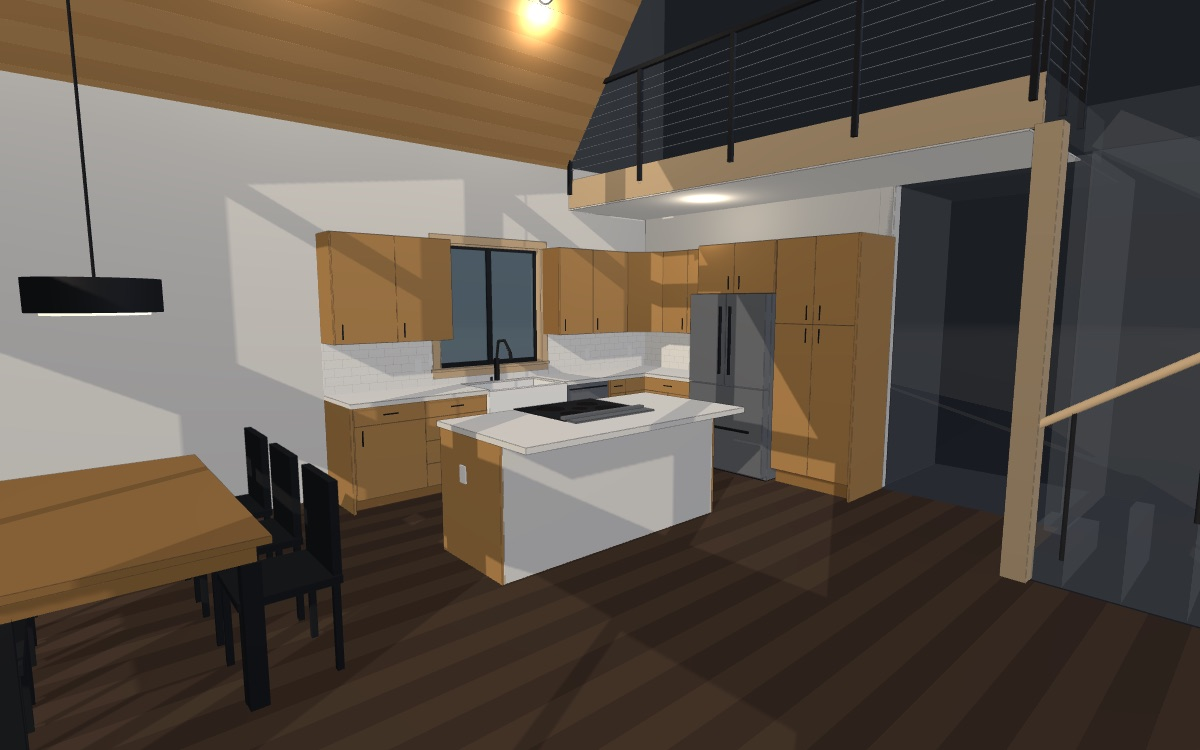
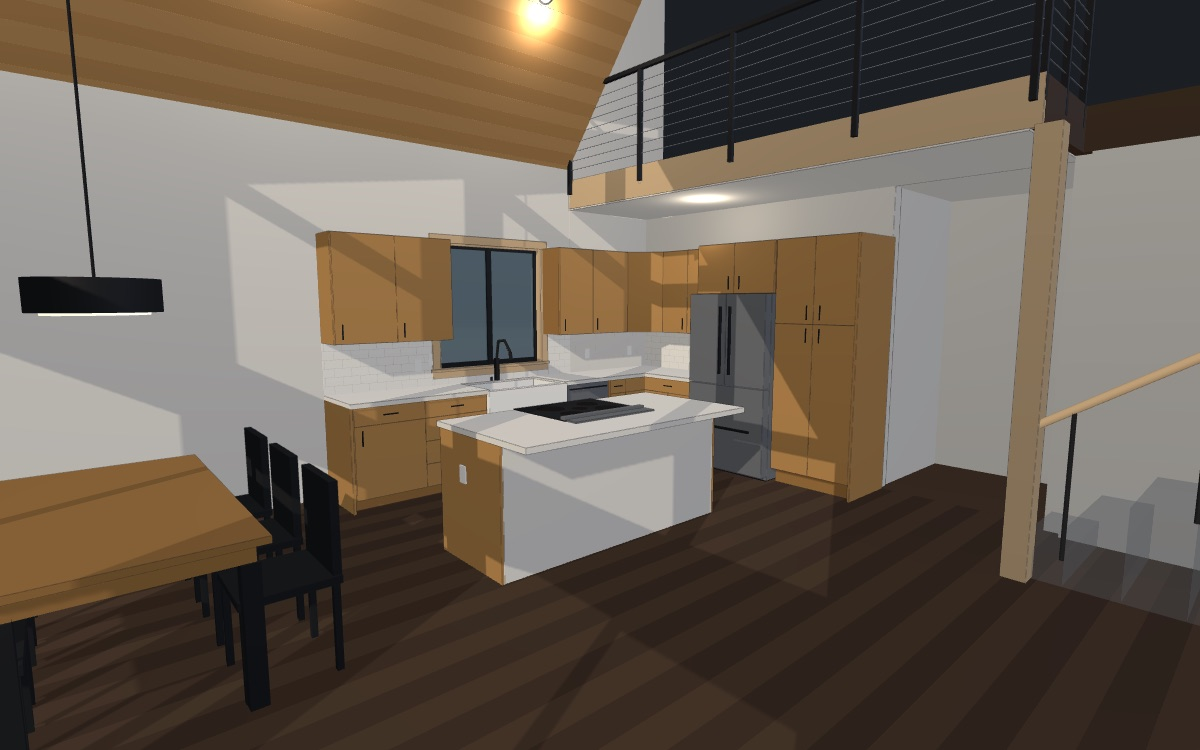
fix: guest bath shower 34 1/8 inches glass to tile, toilet re-centred on the curb face

Changed region(s): [[0.74, 0.092, 1.0, 0.7667], [0.4625, 0.0, 0.555, 0.2453]]

diff --git a/guest-bath.html b/guest-bath.html
@@ -65,16 +65,21 @@
     + basis-of-design fixture schedule. The lower-floor <b>GUEST BATH</b> on the east (gridline A) wall between the guest-room-1
     closets (south) and the kitchen (north), entered from the hall: 5'-7 3/4" x 9'-8 1/2" clear under a flat 9'-0" ceiling. The
     plumbing wall is centered on gridline 2; a 60 1/2" alcove is formed by an 8 1/2" chase at the kitchen end, with a 4'-0" x 1'-0"
-    window (C) at 5'-0" in its east wall. <b>Owner changes 2026-09-10:</b> a tiled <b>shower with a frameless glass door</b> (<b>32" from the glass to the back tile</b>, tile to 7'-0" with painted wall above,
+    window (C) at 5'-0" in its east wall. <b>Owner changes 2026-09-10:</b> a tiled <b>shower with a frameless glass door</b> (<b>34 1/8" from the glass to the back tile</b> &mdash; owner 2026-09-13, was 32" &mdash; tile to 7'-0" with painted wall above,
     like the upstairs bath) replaces A02's tub; the single-sink vanity in the hall-wall corner grows to <b>48"</b>
     (A02: 42 1/2"); every fixture and accessory is <b>matte black</b>. The sink is <b>centered on the 48"</b> (owner decision). The <b>End wall</b>
-    radio opens on the owner's default -- <b>no stub wall</b>, a full-width 66 1/2" tiled shower with custom glass wall to wall -- and can
-    show A02's 8 1/2" chase (which only existed to fit a standard 60" insert, drawn with a 60" x 34" pan) for comparison. The toilet is re-centered in what is left -- 18" to the vanity
-    and 18" to the glass (code minimum 15", 18" recommended); 40" in front of it, 43" between the vanity and the kitchen wall. Door 6
+    radio opens on the owner's default -- <b>no stub wall</b>, a full-width <b>67"</b> tiled shower with custom glass wall to wall -- and can
+    show A02's 8 1/2" chase (which only existed to fit a standard 60" insert, drawn with a 60" x 36" pan) for comparison.
+    <b>Depth 2026-09-13:</b> the shower front moved 2" west, so the glass-to-back-tile depth is 34 1/8" and the <b>flat floor inside the 4" curb is 31 1/8"</b>
+    &mdash; the curb, not the glass, is what your feet and the toilet actually meet. The toilet is re-centred on those finished faces at
+    <b>16 1/2" to the vanity end panel and 16 1/2" to the curb</b> (17 1/2" to the glass centerline; UPC 402.5 / IRC R307.1 minimum is 15",
+    18" is the comfort figure); 40" in front of it, 43" between the vanity and the kitchen wall. UPC 408.6 measures at the curb centerline:
+    33 1/8" x 67" = 2,219 sq in against a 1,024 minimum, with the 30" circle clearing by 3 1/8". Door 6
     (30", LH in-swing) is hinged at the kitchen wall. Walls and openings follow the A02 dim chains; device and light positions are scaled
     from E01 / M01 (&plusmn;1", M01 &plusmn;3"). <b>Orange = not on record or the sheets disagree:</b> S3.2 puts the hall-wall header (a door)
     at the plumbing-wall corner, 34" south of A02's door 6; A04 lists window C's rough width as 3'-0 1/2" against a 4'-0" unit; the
-    M01 fan and the E01 recessed can land 9" apart; the register sits under the open door. <b>Fixtures match the main bath</b> (owner
+    M01 fan and the E01 recessed can land 9" apart; the register sits under the open door; the shower valve and arm heights in the drawing are
+    measured from subfloor (46 1/2" and 78 1/2" above the shower's tiled floor) and the valve sits behind the fixed glass panel, out of reach from outside. <b>Fixtures match the main bath</b> (owner
     2026-09-10): Moen UT3312 shower trim, Moen 6402 faucet, Kohler Artifacts 72582 sconce over a Kohler K-26052 mirror.
     Finishes (dark rustic LVP, knotty alder, light quartz) carry the owner's main-bath / kitchen picks and are assumptions
     here; the BoD leaves the bath cabinet TBD. No site photos or field tape of this room yet -- A02's own <i>5'-3 1/4" FIELD VERIFY</i>
@@ -1581,7 +1586,7 @@ const D = {
   // kitchen partition (north): bath gyp / studs / kitchen gyp
   KP_IN: 71.0, KP_S1: 71.5, KP_S2: 75.0, KP_OUT: 75.5,
   // chase at the alcove's north end: framing face (chain 255.75 - 192.5) and its return plane (moved from A02's 120 to 116.5 for a 34" pan)
-  CH_X1: 63.25, CH_Z: 116.5,
+  CH_X1: 63.25, CH_Z: 114.5,
   // east wall (gridline A): gyp / studs / sheathing / siding
   EW_IN: 150.0, EW_S1: 150.5, EW_S2: 156.0, SHEATH: 156.5, SIDING: 157.25,
   // levels
@@ -1589,17 +1594,18 @@ const D = {
   // openings (door 6 per the A02 chain; window C RO 4'-0 1/2" x 1'-0 1/2", A04's 3'-0 1/2" rough width flagged)
   DOOR_X1: 39.0, DOOR_X2: 69.5, DOOR_HEAD: 84.5, DOOR_W: 30, DOOR_T: 1.375,
   WIN_X1: 8.75, WIN_X2: 57.25, WIN_SILL: 59.75, WIN_HEAD: 72.25,
-  // shower (owner 2026-09-10, replaces the A02 tub): 60" x 34" alcove pan in the 60 1/2" alcove, frameless glass on the threshold
-  // 32" from the back tile (owner: 32", not 30"), shower-only trim on the plumbing wall centered on the pan
-  SH_X1: 3.0, SH_X2: 63.0, SH_Z1: 116.5, SH_Z2: 150.5, PAN_T: 1.5, CURB_W: 3.0, GLASS_Z: 117.5, GLASS_H: 80,
+  // shower (owner 2026-09-10, replaces the A02 tub; depth 32" -> 34" owner 2026-09-13, spec decision 10): frameless glass on the threshold,
+  // 34 1/8" glass to back tile / 31 1/8" of flat floor inside the 4" curb; 60" x 36" alcove pan in the chase comparison view
+  SH_X1: 3.0, SH_X2: 63.0, SH_Z1: 114.5, SH_Z2: 150.5, PAN_T: 1.5, CURB_W: 3.0, GLASS_Z: 115.5, GLASS_H: 80,
   DOOR_G_X: 32.375, DOOR_G_X2: 40.375,   // glass door / fixed-panel split: with the chase (door hinged on the chase) / without (door hinged on the panel)
-  TRIM_Z: 133.5, VALVE_Y: 48, ARM_Y: 80,
+  TRIM_Z: 132.5, VALVE_Y: 48, ARM_Y: 80,   // trim re-centred on the deeper footprint; both heights are above SUBFLOOR (46 1/2" / 78 1/2" above the shower floor) -- spec open item 10
   // vanity in the plumbing-wall / hall-wall corner: 24 3/4" deep counter, 48" long (owner 2026-09-10; A02 drew 42 1/2"), faces north
   VAN_X1: 3.25, VAN_X2: 27.0, CTR_X2: 28.0, VAN_Z1: 33.5, VAN_Z2: 81.5, CTR_Y: 34.75, CTR_T: 1.25,
   SINK_XC: 15.5, SINK_ZC: 57.5, SINK_L: 13, SINK_W: 16, FAUCET_X: 6.5,   // sink centered on the 48" vanity (owner decision 2026-09-10; A02 symbol 49.5)
   MIR_HW: 11.03, MIR_Y1: 42, MIR_Y2: 76.06,          // Kohler K-26052 Essential 22 1/16" x 34 1/16" mirror, bottom 42", + Artifacts 72582 sconce 3" above -- same as the main bath
-  // toilet centerline: re-centered between the 48" vanity end (81.5) and the shower glass (117.5) -- 18" each side; A02 drew it at 104
-  WC_Z: 99.5,
+  // toilet centerline: re-centred between the 48" vanity end panel (81.5) and the CURB face (114.5) -- 16 1/2" each side, 17 1/2" to the
+  // glass centerline; was 99.5 at the 32" depth, A02 drew 104 (spec decision 10)
+  WC_Z: 98.0,
   // devices: E01 can + GFCI + 3-gang, M01 fan + floor register
   CAN: [37.2, 77.4], FAN: [42.0, 70.0], SWITCH_X: 32.5, GFCI_X: 15.5, REG: [66.5, 70.5, 60, 70],
   // finishes + framing rules
@@ -1850,7 +1856,12 @@ const winHole = rect(D.WIN_X1, D.WIN_SILL, D.WIN_X2, D.WIN_HEAD);
 }
 
 // ---- kitchen partition (north) and the tub chase at the alcove's north end ------------------------------------------------
-box(D.KP_IN, D.KP_OUT, 0, TOP, D.HW_OUT, D.EW_S1, M.gyp, 'wallN');
+//      Bath-side gyp stops at the shower: backer + tile REPLACE it there, as on the plumbing and east walls (spec decision 11 --
+//      the tile used to sit over the gyp, which understated the no-chase shower by 1/2"). Behind the chase option the strip is
+//      hidden by the chase block, so it is simply left out in both views.
+box(D.KP_S1, D.KP_OUT, 0, TOP, D.HW_OUT, D.EW_S1, M.gyp, 'wallN');                       // core + kitchen-side gyp, full length
+box(D.KP_IN, D.KP_S1, 0, TOP, D.HW_OUT, D.CH_Z, M.gyp, 'wallN');                         // bath-side gyp up to the shower
+box(D.KP_IN, D.KP_S1, D.TILE_H, TOP, D.CH_Z, D.EW_S1, M.gyp, 'wallN');                   // ... and above the shower tile
 tagNew('chaseOn', () => box(D.CH_X1, D.KP_IN, 0, TOP, D.CH_Z, D.EW_S1, M.gyp, 'tub'));   // chase block: 8 1/4" framing + gyp return at the pan's front edge (End wall radio)
 
 // ---- east wall (gridline A) with window C: 4'-0" x 1'-0" at 5'-0", tiled returns inside the surround -----------------------
@@ -1923,9 +1934,9 @@ box(D.PW_IN, D.KP_IN, D.CEIL, D.CEIL + D.GYP_T, D.HW_IN, D.EW_IN, M.gyp, 'ceilin
   box(xf, xf + 0.6, 4, gh, gz - 0.5, gz + 0.5, M.black, G);                             // glass wall channel at the valve wall
   const pull = xp => { for (const sz of [-1, 1]) { bar(V(xp, 38, gz + sz * 1.7), V(xp, 50, gz + sz * 1.7), 0.45, M.black, G); for (const y of [39, 49]) bar(V(xp, y, gz), V(xp, y, gz + sz * 1.7), 0.35, M.black, G); } };
   const panel = (ga, gb) => { box(ga, gb, 4, gh, gz - 0.19, gz + 0.19, M.glass, G, false); box(ga, gb, gh - 0.6, gh, gz - 0.5, gz + 0.5, M.black, G); };   // fixed panel + header bar
-  tagNew('chaseOn', () => {                                                              // A02 chase: 60 x 32 alcove pan, door hinged on the chase
+  tagNew('chaseOn', () => {                                                              // A02 chase: 60 x 36 alcove pan, door hinged on the chase
     const x1 = D.SH_X1, x2 = D.SH_X2, xe = D.CH_X1, gs = D.DOOR_G_X, gx2 = xe - tt - 0.4;
-    box(x1, x2, 0, yb, z1, z2, M.white, L);                                             // pan (model not chosen; 60 x 32 alcove base)
+    box(x1, x2, 0, yb, z1, z2, M.white, L);                                             // pan (model not chosen; 60 x 36 alcove base after the 2" move)
     box(x1, x2, 0, 4, z1, z1 + D.CURB_W, M.white, L);                                   // threshold along the glass line
     cyl((x1 + x2) / 2, (z1 + D.CURB_W + z2) / 2, yb, yb + 0.2, 2, M.black, L);         // drain
     box(xe - tt, xe, yb, th, z1, ez, M.tile, T);                                        // chase-end tile
@@ -1939,15 +1950,15 @@ box(D.PW_IN, D.KP_IN, D.CEIL, D.CEIL + D.GYP_T, D.HW_IN, D.EW_IN, M.gyp, 'ceilin
     pull(gs + 3.5);
   });
   tagNew('chaseOff', () => {                                                             // no chase: tiled floor + curb wall to wall, door hinged on the panel
-    const x1 = xf, x2 = D.KP_IN - tt, gs = D.DOOR_G_X2, gx2 = x2 - 0.4;
+    const x1 = xf, x2 = D.KP_S1 - tt, gs = D.DOOR_G_X2, gx2 = x2 - 0.4;   // tile face 70.625: backer replaces the gyp, so the shower is 67" tile to tile
     box(x1, x2, 0, yb, z1, z2, M.tile, L);                                              // tiled floor (mud-set, sloped to the drain in reality)
     box(x1, x2, 0, 4.5, z1, z1 + 4, M.tile, L);                                         // tiled 4" curb
     cyl((x1 + x2) / 2, (z1 + 4 + z2) / 2, yb, yb + 0.2, 2, M.black, L);                // drain
-    box(D.KP_IN - tt, D.KP_IN, yb, th, z1, ez, M.tile, T);                              // kitchen-wall end tile
-    prism(rect(D.PW_N, yb, D.KP_IN, th), ez, D.EW_S1, M.tile, T, [winHole]);           // east wall tile, full width
-    box(D.KP_IN - tt - 0.1, D.KP_IN, yb, th + 0.5, z1 - 0.5, z1, M.black, T, false);
-    box(D.KP_IN - tt - 0.1, D.KP_IN, th, th + 0.5, z1 - 0.5, ez, M.black, T, false);
-    box(D.PW_N, D.KP_IN, th, th + 0.5, ez - 0.1, ez + 0.1, M.black, T, false);
+    box(D.KP_S1 - tt, D.KP_S1, yb, th, z1, ez, M.tile, T);                              // kitchen-wall end tile
+    prism(rect(D.PW_N, yb, D.KP_S1, th), ez, D.EW_S1, M.tile, T, [winHole]);           // east wall tile, full width
+    box(D.KP_S1 - tt - 0.1, D.KP_S1, yb, th + 0.5, z1 - 0.5, z1, M.black, T, false);
+    box(D.KP_S1 - tt - 0.1, D.KP_S1, th, th + 0.5, z1 - 0.5, ez, M.black, T, false);
+    box(D.PW_N, D.KP_S1, th, th + 0.5, ez - 0.1, ez + 0.1, M.black, T, false);
     panel(xf + 0.6, gs - 0.3);
     box(gs + 0.3, gx2, 4, gh, gz - 0.19, gz + 0.19, M.glass, G, false);                 // 29 1/2" door, free edge at the kitchen wall
     for (const y of [14, 66]) box(gs - 1.6, gs + 1.6, y, y + 3.5, gz - 1.1, gz + 1.1, M.black, G);   // glass-to-glass hinges
@@ -2130,15 +2141,15 @@ label('GUEST BATH  5\'-7 3/4" x 9\'-8 1/2" clear, 9\'-0" ceiling\nplumbing wall 
 label('Door 6  30" x 84"  LH in-swing, hinged at the kitchen wall\nAgeless Iron Loch, OPCI', 54, 92, 34);
 label('S3.2 puts this wall\'s header (a door) at the plumbing-wall corner, 34" south of A02\'s door 6\nDrawn per A02 -- coordinate with Armstrong / Pieruccioni before the hall wall is framed', 40, 100, 31, FLAG);
 label('Window C  4\'-0" x 1\'-0", sill 5\'-0" (A03, A04 type C, section 4)\nA04 schedule lists its rough width as 3\'-0 1/2" -- drawn 4\'-0 1/2"; returns tiled', 33, 84, 148, FLAG);
-tagNew('chaseOn', () => label('For comparison: 60" x 34" alcove pan in the A02 chase, 58 3/4" x 32" to the glass\nthe chase only existed to fit a standard insert. End wall radio: none (default) / chase', 33, 26, 133));
-tagNew('chaseOff', () => label('Full-width tiled shower, no chase (owner default 2026-09-10): 66 1/2" tile to tile x 32" to the glass\ntiled floor + 4" curb, custom frameless glass wall to wall (tile + glass door as upstairs)', 37, 26, 133));
-label('Moen UT3312 Belfield M-CORE 3-Series shower trim, matte black -- same as the main bath (owner 2026-09-10)\nreplaces the BoD UT2313EP tub/shower kit', 10, 90, 133.5, NOTE);
+tagNew('chaseOn', () => label('For comparison: 60" x 36" alcove pan in the A02 chase, 58 3/4" x 34 1/8" to the glass\nthe chase only existed to fit a standard insert. End wall radio: none (default) / chase', 33, 26, 132));
+tagNew('chaseOff', () => label('Full-width tiled shower, no chase (owner default): 67" tile to tile x 34 1/8" to the glass (owner 2026-09-13, was 32")\ntiled floor + 4" curb -- 31 1/8" of FLAT floor inside the curb, which is the dimension you stand in; custom frameless glass wall to wall', 37, 26, 132));
+label('Moen UT3312 Belfield M-CORE 3-Series shower trim, matte black -- same as the main bath (owner 2026-09-10); replaces the BoD UT2313EP kit\nValve 48" / arm 80" are ABOVE SUBFLOOR = 46 1/2" / 78 1/2" above the shower floor -- settle both as above-shower-floor numbers before rough-in\nAnd the valve sits behind the FIXED panel, ~35" from the door: the water cannot be turned on from outside, and walking to it crosses the spray.\nThe chase option\'s answer (a valve in the chase) went away with the chase -- owner call. M01 note 4: listed anti-scald / pressure-balance valve, 120 F max', 10, 96, 132.5, FLAG);
 tagNew('chaseOn', () => label('Frameless glass: fixed panel at the valve end, 30" door hinged on the chase, swings out\n(a door at the valve end would sweep the toilet)', 33, 86, 118, NOTE));
-tagNew('chaseOff', () => label('Frameless glass wall to wall: 36 3/4" fixed panel at the valve end, 29 1/2" door on glass-to-glass hinges,\nswings out and closes against the kitchen wall (a valve-end door would sweep the toilet)', 37, 86, 118, NOTE));
+tagNew('chaseOff', () => label('Frameless glass wall to wall in a 67" opening: 35 7/8" fixed panel at the valve end, 29 9/16" door on glass-to-glass hinges,\nswings out and closes against the kitchen wall (a valve-end door would sweep the toilet)', 37, 86, 116, NOTE));
 label('Tile 0931 (OPCI) to 7\'-0" on three walls, painted wall above (owner: not to the ceiling; height typical)', 40, 90, 148, NOTE);
 label('Single-sink vanity 48" x 24 3/4" (owner 2026-09-10; A02 42 1/2"), sink centered (owner decision): 12" drawers | 24" doors | 12" drawers\ncabinet species TBD in the BoD (drawn alder), quartz assumed; Moen 6402 faucet as upstairs; the E01 receptacle stays on the hall wall', 16, 42, 58);
 label('Kohler Artifacts 72582 two-light sconce over a Kohler K-26052 Essential 22" x 34" mirror -- same as the main bath (owner 2026-09-10)\nreplaces the BoD Bellevue EGBF23259 bar; the E01 circuit-2 box lands on the sink centerline, 24" off the hall wall', 8, 97, D.SINK_ZC, NOTE);
-label('Toilet -- American Standard (model not named)\ncenterline re-centered: 18" to the vanity end, 18" to the shower glass (A02 drew it 4 1/2" further toward the tub)', 22, 34, 99.5, FLAG);
+label('Toilet -- American Standard (model not named)\ncenterline z 98: 16 1/2" to the vanity end panel and 16 1/2" to the CURB FACE -- the nearest finished obstruction, 1" inboard of the glass\n(17 1/2" to the glass centerline; UPC 402.5 / IRC R307.1 minimum is 15"). A02 drew it 6" further toward the shower', 22, 34, 98, FLAG);
 label('Recessed can (E01 ckt 2) and Broan 50 CFM fan (M01) land 9" apart\none moves ~6", or the fan becomes a fan/light', 40, 103, 74, FLAG);
 label('3-gang: vanity light / can / fan', D.SWITCH_X, 55, 36, NOTE);
 label('GFCI, ckt 32', D.GFCI_X, 48, 36, NOTE);
@@ -2152,16 +2163,17 @@ label('Flat gyp ceiling at 9\'-0" (section 4)', 37, 104, 56, NOTE);
 dim(V(D.PW_IN, 2, 112), V(D.KP_IN, 2, 112), '5\'-7 3/4" clear', V(0, 0, 0), V(0, 1, 0));
 dim(V(36, 2, D.HW_IN), V(36, 2, D.EW_IN), '9\'-8 1/2" clear', V(0, 0, 0), V(0, 1, 0));
 tagNew('chaseOn', () => {
-  dim(V(D.PW_N, 100, 116), V(D.CH_X1, 100, 116), '60 1/2" stud to stud (FIELD VERIFY)', V(0, 0, 0), V(0, 1, 0));
-  dim(V(0, 106, 114), V(D.CH_X1, 106, 114), '5\'-3 1/4" from gridline 2 (A02)', V(0, 0, 0), V(0, 1, 0));
+  dim(V(D.PW_N, 100, 112), V(D.CH_X1, 100, 112), '60 1/2" stud to stud (FIELD VERIFY)', V(0, 0, 0), V(0, 1, 0));
+  dim(V(0, 106, 110), V(D.CH_X1, 106, 110), '5\'-3 1/4" from gridline 2 (A02)', V(0, 0, 0), V(0, 1, 0));
 });
-tagNew('chaseOff', () => dim(V(D.PW_IN, 100, 116), V(D.KP_IN, 100, 116), '67 3/4" wall to wall (66 1/2" tile to tile), no chase', V(0, 0, 0), V(0, 1, 0)));
-dim(V(20, 20, D.GLASS_Z), V(20, 20, D.EW_S1 - D.TILE_T), '32" glass to tile (owner)', V(0, 0, 0), V(0, 1, 0));
+tagNew('chaseOff', () => dim(V(D.PW_IN, 100, 112), V(D.KP_IN, 100, 112), '67 3/4" wall to wall (67" tile to tile), no chase', V(0, 0, 0), V(0, 1, 0)));
+dim(V(20, 20, D.GLASS_Z), V(20, 20, D.EW_S1 - D.TILE_T), '34 1/8" glass to tile (owner: 34")', V(0, 0, 0), V(0, 1, 0));
+dim(V(26, 20, D.SH_Z1 + 4), V(26, 20, D.EW_S1 - D.TILE_T), '31 1/8" flat floor inside the curb', V(0, 0, 0), V(0, 1, 0));
 dim(V(D.CTR_X2 + 3, 44, D.VAN_Z1), V(D.CTR_X2 + 3, 44, D.SINK_ZC), '24" to the sink', V(0, 0, 0), V(0, 1, 0));
 dim(V(D.CTR_X2 + 3, 38, D.VAN_Z1), V(D.CTR_X2 + 3, 38, D.VAN_Z2), '48"', V(0, 0, 0), V(0, 1, 0));
 dim(V(D.VAN_X1, 38, D.VAN_Z2 + 3), V(D.CTR_X2, 38, D.VAN_Z2 + 3), '24 3/4"', V(0, 0, 0), V(0, 1, 0));
-dim(V(32, 8, D.VAN_Z2), V(32, 8, D.WC_Z), '18"', V(0, 0, 0), V(0, 1, 0));
-dim(V(32, 8, D.WC_Z), V(32, 8, D.GLASS_Z), '18"', V(0, 0, 0), V(0, 1, 0));
+dim(V(32, 8, D.VAN_Z2), V(32, 8, D.WC_Z), '16 1/2" to the vanity', V(0, 0, 0), V(0, 1, 0));
+dim(V(32, 8, D.WC_Z), V(32, 8, D.SH_Z1), '16 1/2" to the curb', V(0, 0, 0), V(0, 1, 0));
 dim(V(D.CTR_X2, 14, 56), V(D.KP_IN, 14, 56), '43" vanity to kitchen wall', V(0, 0, 0), V(0, 1, 0));
 dim(V(D.PW_IN + 27.5, 14, D.WC_Z + 12), V(D.KP_IN, 14, D.WC_Z + 12), '40" in front of the toilet', V(0, 0, 0), V(0, 1, 0));
 dim(V(D.WIN_X1, D.WIN_HEAD + 5, D.EW_IN - 1), V(D.WIN_X2, D.WIN_HEAD + 5, D.EW_IN - 1), 'RO 4\'-0 1/2" x 1\'-0 1/2"', V(0, 0, 0), V(0, 1, 0));

diff --git a/kitchen.html b/kitchen.html
@@ -1863,7 +1863,12 @@ function planks(x1, x2, z1, z2, layer) {
 }
 planks(D.S_FACE, D.N_GYP, D.WELL_Z2, D.E_GYP, 'floor');
 planks(0, D.N_GYP, D.W_GYP, D.WELL_Z2, 'floor');
-box(D.HALL_X1, D.S_FACE, 0, D.LVP_T, D.HALL_Z1, D.HALL_Z2, M.ghostFl, 'context');       // hall floor, ghost
+// Floor across the stair footprint, added 2026-09-11 (phase 1b). The two regions above leave x -60..0,
+// z -150..-25 bare because the stair stands there; with the stair's treads excluded from renders that
+// was a hole in the floor, and the kitchen view looked through it to the ground outside. The stair's
+// bottom run starts at this level regardless, so plain floor is the honest fill.
+planks(D.LNG_X1, 0, D.W_GYP, D.WELL_Z2, 'floor');
+box(D.HALL_X1, D.S_FACE, 0, D.LVP_T, D.HALL_Z1, D.HALL_Z2, M.floorPlank, 'floor', false);   // hall floor
 
 // ---- east wall (gridline A) with window D --------------------------------------------------------
 {
@@ -2064,14 +2069,14 @@ for (const sx of [33, 58.75, 84.5]) {
 
 // ---- kitchen ceiling under the lounge, lounge floor + fascia + cable rail, stair, hall ghosts ---------------------
 box(D.S_FACE, 0, D.CEIL_K, D.LNG_LO, D.HALL_Z1, D.E_GYP, M.gypC, 'lounge');                       // gyp ceiling, kitchen + hall end
-box(D.HALL_X1, D.S_FACE, D.CEIL_K, D.LNG_LO, D.HALL_Z1, D.HALL_Z2, M.ghostFl, 'context');
-box(D.LNG_X1, -1.5, D.LNG_LO, D.LNG_HI, D.WELL_Z2, D.E_GYP, M.ghostFl, 'context');                 // lounge floor (ghost)
-box(D.LNG_X1, D.WELL_X1, D.LNG_LO, D.LNG_HI, D.W_GYP, D.WELL_Z2, M.ghostFl, 'context');
+box(D.HALL_X1, D.S_FACE, D.CEIL_K, D.LNG_LO, D.HALL_Z1, D.HALL_Z2, M.gypC, 'lounge', false);   // hall ceiling
+box(D.LNG_X1, -1.5, D.LNG_LO, D.LNG_HI, D.WELL_Z2, D.E_GYP, M.floorPlank, 'lounge', false);         // lounge floor
+box(D.LNG_X1, D.WELL_X1, D.LNG_LO, D.LNG_HI, D.W_GYP, D.WELL_Z2, M.floorPlank, 'lounge', false);
 box(-1.5, 0, D.LNG_LO, D.LNG_HI, D.WELL_Z2, D.E_GYP, M.trimCasing, 'lounge');                           // floor-edge fascia (rail mounts here)
-box(D.LNG_X1, 0, D.WALL_TOP, 214, D.E_GYP, D.E_OUT, M.ghost, 'context');                           // lounge walls up to the 17'-10" dormer plate (ghost)
-box(D.LNG_X1, 0, D.WALL_TOP, 214, D.W_OUT, D.W_GYP, M.ghost, 'context');
-slopedBoxZ(D.LNG_X1, 0, D.GLB_W / 2, 150, yd, -D.DORM_SLOPE, .75, M.ghostFl, 'context', false);    // 8:12 dormer ceiling over the lounge (ghost)
-slopedBoxZ(D.LNG_X1, 0, -150, -D.GLB_W / 2, yd, D.DORM_SLOPE, .75, M.ghostFl, 'context', false);
+box(D.LNG_X1, 0, D.WALL_TOP, 214, D.E_GYP, D.E_OUT, M.gyp, 'lounge', false);                       // lounge walls up to the 17'-10" dormer plate
+box(D.LNG_X1, 0, D.WALL_TOP, 214, D.W_OUT, D.W_GYP, M.gyp, 'lounge', false);
+slopedBoxZ(D.LNG_X1, 0, D.GLB_W / 2, 150, yd, -D.DORM_SLOPE, .75, M.gypC, 'lounge', false);        // 8:12 dormer ceiling over the lounge
+slopedBoxZ(D.LNG_X1, 0, -150, -D.GLB_W / 2, yd, D.DORM_SLOPE, .75, M.gypC, 'lounge', false);
 { // 0560 metal railing with airplane cable, fascia-mounted at gridline 3 and around the stair well
   const posts = [-23, 19.75, 62.5, 105.25, 148];
   for (const z of posts) box(0, 1.5, D.LNG_HI - 6, D.RAIL_TOP - 1.5, z - .75, z + .75, M.black, 'lounge');
@@ -2081,16 +2086,32 @@ slopedBoxZ(D.LNG_X1, 0, -150, -D.GLB_W / 2, yd, D.DORM_SLOPE, .75, M.ghostFl, 'c
   box(D.WELL_X1, 0, D.RAIL_TOP - 1.5, D.RAIL_TOP, D.WELL_Z2, D.WELL_Z2 + 1.5, M.black, 'lounge');
   for (let y = 124; y < D.RAIL_TOP - 2; y += 3.75) bar(V(D.WELL_X1 + 1, y, D.WELL_Z2 + .75), V(-1, y, D.WELL_Z2 + .75), .12, M.steel, 'lounge');
 }
-{ // stair (A02: 8 risers west to a 3'-0" landing, 8 back east over the utility), 6x6 post, wood handrail -- ghost
+{ // stair (A02: 8 risers west to a 3'-0" landing, 8 back east over the utility), 6x6 post, wood handrail
+  // The TREADS and the sloped soffit below stay on `context` and out of renders: eight plain boxes are a
+  // sketch of a stair, and a photograph should not assert a stair detail no sheet settles. The enclosing
+  // WALLS, FLOORS and CEILING around them moved back onto exported layers with real materials on
+  // 2026-09-11 -- a plane's existence and position are settled even where its detail is not, and leaving
+  // them out opened a floor-to-ridge hole in the kitchen and island renders that showed the sky where the
+  // stair is. They are a painted shell standing in for the real thing; task 4.2 models this side properly
+  // from A02 and the loft drawing, and should take them over.
   for (let i = 0; i < 8; i++) box(D.WELL_X1, -1.5, 0, D.RISE * (i + 1), D.WELL_Z2 - D.TREAD * (i + 1), D.WELL_Z2 - D.TREAD * i, M.ghost, 'context', false);
   box(D.WELL_X1, -1.5, 0, 60, D.W_GYP, D.LAND_Z, M.ghost, 'context', false);
   slopedBoxZ(-66, D.UT_X1, D.LAND_Z, D.WELL_Z2 - 1, z => 50 + (z - D.LAND_Z) * (60 / 88), 60 / 88, 10, M.ghost, 'context', false);
   box(-2.75, 2.75, 0, D.LNG_LO, -29.75, -24.25, M.trimCasing, 'lounge');                                // 0603 post at the stair foot
   bar(V(.75, 36, D.WELL_Z2), V(.75, 96, D.LAND_Z), 1, M.trimCasing, 'lounge');                            // 1040 wood handrail line
   for (const z of [-36, -58, -80, -102]) { const t = (D.WELL_Z2 - z) / 88; bar(V(.75, 60 * t, z), V(.75, 36 + 60 * t, z), .5, M.black, 'lounge'); }
-  box(D.UT_X1, D.UT_X2, 0, D.LNG_LO, D.W_GYP, -27, M.ghost, 'context');                           // stair south wall / utility east wall
-  box(D.HALL_X1, D.UT_X1, 0, D.LNG_LO, -27, D.HALL_Z1, M.ghost, 'context');                       // utility wall along the hall
-  box(D.HALL_X1, D.S_FACE, 0, D.LNG_LO, D.HALL_Z2, D.HALL_Z2 + 4.5, M.ghost, 'context');           // guest-bath wall along the hall
+  box(D.UT_X1, D.UT_X2, 0, D.LNG_LO, D.W_GYP, -27, M.gyp, 'lounge', false);                       // stair south wall / utility east wall
+  box(D.HALL_X1, D.UT_X1, 0, D.LNG_LO, -27, D.HALL_Z1, M.gyp, 'lounge', false);                   // utility wall along the hall
+  box(D.HALL_X1, D.S_FACE, 0, D.LNG_LO, D.HALL_Z2, D.HALL_Z2 + 4.5, M.gyp, 'lounge', false);       // guest-bath wall along the hall
+  // Boundary shell under the loft floor, added 2026-09-11 (phase 1b). Without it the kitchen and island
+  // renders looked straight out of the house to the south-west: the volume below LNG_LO had no west, east
+  // or south face, because this drawing is of the kitchen and simply stopped. The east and west planes ARE
+  // real house walls -- gridlines A and C run the full length -- so they are drawn at the same gyp faces as
+  // the great room's. The south plane at HALL_X1 is this drawing's own cut line and nothing else, so it is
+  // a blank that stops the view rather than a wall anyone should read; task 4.2 replaces this side wholesale.
+  box(D.HALL_X1, 0, 0, D.WALL_TOP, D.W_GYP, D.W_GYP + .5, M.gyp, 'lounge', false);                     // gridline C, meets wallW at x=0
+  box(D.HALL_X1, 0, 0, D.WALL_TOP, D.E_GYP - .5, D.E_GYP, M.gyp, 'lounge', false);                     // gridline A, meets wallE at x=0
+  box(D.HALL_X1 - .5, D.HALL_X1, 0, D.WALL_TOP, D.W_GYP, D.E_GYP, M.gyp, 'lounge', false);             // drawing cut line
 }
 
 // ---- west wall (gridline C) with windows A1 / A2 -------------------------------------------------
